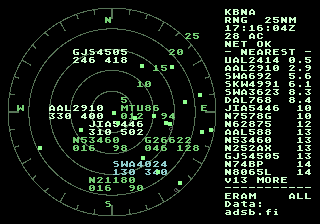
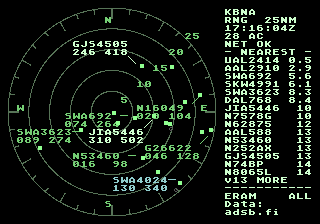
STARS data blocks: tags on leader lines in the STARS and ERAM themes
A theme flag (leader) makes tags data blocks set off the blip on a 1-px leader
line: 8 directions, 1-2 cells, the last direction tried first so blocks stay
put; then the old 4 spots. Leader cells are reserved in the tag grid, cleared
with the tag, and evicted by the notice box. West-side text meets its line.
Classic is pixel-identical; V-Int +2 lines avg at 25 nm. MAME-verified only.

Changed region(s): [[0.0312, 0.4688, 0.625, 0.875], [0.2188, 0.1875, 0.4062, 0.2812]]

diff --git a/src/radar.c b/src/radar.c
@@ -32,7 +32,28 @@ static const u32 box_tiles[4][8] = {
     { 0, 0, 0, 0, 0x00000005, 0x00000005, 0x00000005, 0x00005555 },
 };
 
-static u16 t_blip, t_box, t_ofont;
+/* STARS data blocks (themes with `leader`): a 1-px leader line in the tag's colour (15), transparent elsewhere.
+ * Diagonals run corner to corner, so cells in a row make one line. */
+static const u32 lead_tiles[4][8] = {
+    { 0x0000000F, 0x000000F0, 0x00000F00, 0x0000F000, 0x000F0000, 0x00F00000, 0x0F000000, 0xF0000000 },  /* rising: SW to NE */
+    { 0xF0000000, 0x0F000000, 0x00F00000, 0x000F0000, 0x0000F000, 0x00000F00, 0x000000F0, 0x0000000F },  /* falling: NW to SE */
+    { 0, 0, 0, 0xFFFFFFFF, 0, 0, 0, 0 },  /* horizontal */
+    { 0x000F0000, 0x000F0000, 0x000F0000, 0x000F0000, 0x000F0000, 0x000F0000, 0x000F0000, 0x000F0000 },  /* vertical */
+};
+enum { LT_SLASH, LT_BACK, LT_DASH, LT_BAR };
+/* Directions, in the order they're tried: NE SE NW SW E W N S. The tag sits at (ltag) from the leader's last
+ * cell, so the line meets its corner (diagonals) or its callsign row / first column. */
+#define L_DIRS  8
+static const s8 ldir[L_DIRS][2] = { { 1, -1 }, { 1, 1 }, { -1, -1 }, { -1, 1 }, { 1, 0 }, { -1, 0 }, { 0, -1 }, { 0, 1 } };
+static const u8 ltile[L_DIRS] = { LT_SLASH, LT_BACK, LT_BACK, LT_SLASH, LT_DASH, LT_DASH, LT_BAR, LT_BAR };
+static const s8 ltag[L_DIRS][2] = {
+    { 1, -2 }, { 1, 1 }, { -TAG_W, -2 }, { -TAG_W, 1 }, { 1, 0 }, { -TAG_W, 0 }, { 0, -2 }, { 0, 1 },
+};
+#define LEAD_ON     0x80
+#define LEAD_DIR(l) ((l) & 7)
+#define LEAD_LEN(l) (((l) >> 3) & 3)
+
+static u16 t_blip, t_box, t_ofont, t_lead;
 static u16 k_scale;
 static u8 grid[GRID_H][GRID_W];         /* tag/label occupancy per plane-A cell */
 static u8 label_cells[GRID_H][GRID_W];  /* permanent: ring labels + compass */
@@ -166,16 +187,35 @@ static bool grid_free(s16 x, s16 y)
 
 /* ------------------------------------------------------------ tags + trails */
 
-static void erase_tag(struct track *t)
+/* Cell k (0 = next to the tag) of a drawn leader line: back along its direction from the tag. */
+static void lead_cell(const struct track *t, u16 k, s16 *x, s16 *y)
 {
-    if (t->tag_x >= 0) {
-        for (s16 r = 0; r < 2; r++) {
-            row_clear(VDP_BG_A, t->tag_x, t->tag_y + r, TAG_W);
-            grid_mark(t->tag_x, t->tag_y + r, TAG_SPAN, -1);
-        }
-        t->tag_x = t->tag_y = -1;
-    }
+    u8 d = LEAD_DIR(t->lead);
+    *x = t->tag_x - ltag[d][0] - ldir[d][0] * k;
+    *y = t->tag_y - ltag[d][1] - ldir[d][1] * k;
 }
+
+/* Clear a tag's cells (and its leader's) from plane A; ungrid: release them in the grid too. */
+static void clear_tag(struct track *t, bool ungrid)
+{
+    if (t->tag_x < 0) return;
+    for (s16 r = 0; r < 2; r++) {
+        row_clear(VDP_BG_A, t->tag_x, t->tag_y + r, TAG_W);
+        if (ungrid) grid_mark(t->tag_x, t->tag_y + r, TAG_SPAN, -1);
+    }
+    if (t->lead & LEAD_ON) {
+        for (u16 k = 0; k < LEAD_LEN(t->lead); k++) {
+            s16 x, y;
+            lead_cell(t, k, &x, &y);
+            row_clear(VDP_BG_A, x, y, 1);
+            if (ungrid) grid_mark(x, y, 1, -1);
+        }
+        t->lead &= ~LEAD_ON;                /* direction and length stay: tried first next time */
+    }
+    t->tag_x = t->tag_y = -1;
+}
+
+static void erase_tag(struct track *t) { clear_tag(t, TRUE); }
 
 #define NO_DOT  (-32768)
 
@@ -214,6 +254,61 @@ static bool want_tag(u16 i)
     }
 }
 
+/* right: the text moves right over the trailing spaces both lines share, so a tag west of its leader meets
+ * the line (the cells, and the grid footprint, stay x .. x + TAG_W - 1). */
+static void put_tag(struct track *t, s16 x, s16 y, bool right)
+{
+    u16 attr = TILE_ATTR(t->tag_pal, TRUE, FALSE, FALSE), pad = 0;
+    if (right)
+        while (pad < TAG_W - 1 && t->tag[0][TAG_W - 1 - pad] == ' ' && t->tag[1][TAG_W - 1 - pad] == ' ') pad++;
+    row_write(VDP_BG_A, x + pad, y, t->tag[0], TAG_W - pad, attr);
+    row_write(VDP_BG_A, x + pad, y + 1, t->tag[1], TAG_W - pad, attr);
+    grid_mark(x, y, TAG_SPAN, 1);
+    grid_mark(x, y + 1, TAG_SPAN, 1);
+    t->tag_x = x;
+    t->tag_y = y;
+}
+
+/* A leader of len cells from the blip's cell in direction d, and the tag at its end: TRUE if it all fits. */
+static bool lead_fits(s16 cx, s16 cy, u16 d, u16 len)
+{
+    for (u16 k = 1; k <= len; k++) {
+        s16 x = cx + ldir[d][0] * k, y = cy + ldir[d][1] * k;
+        if (x < 1 || y < 1 || x > 26 || y > 26 || grid[y][x]) return FALSE;
+    }
+    return grid_free(cx + ldir[d][0] * len + ltag[d][0], cy + ldir[d][1] * len + ltag[d][1]);
+}
+
+/* STARS data block: the last direction and length if they still fit, else the first that does, nearest first. */
+static bool draw_lead(struct track *t, s16 cx, s16 cy)
+{
+    u16 d = L_DIRS, len = 0;
+
+    if (LEAD_LEN(t->lead) && lead_fits(cx, cy, LEAD_DIR(t->lead), LEAD_LEN(t->lead))) {
+        d = LEAD_DIR(t->lead);
+        len = LEAD_LEN(t->lead);
+    } else {
+        for (u16 l = 1; l <= 2 && d == L_DIRS; l++)
+            for (u16 c = 0; c < L_DIRS; c++)
+                if (lead_fits(cx, cy, c, l)) {
+                    d = c;
+                    len = l;
+                    break;
+                }
+    }
+    if (d == L_DIRS) return FALSE;
+    u16 attr = TILE_ATTR_FULL(t->tag_pal, TRUE, FALSE, FALSE, t_lead + ltile[d]);
+    for (u16 k = 1; k <= len; k++) {
+        s16 x = cx + ldir[d][0] * k, y = cy + ldir[d][1] * k;
+        *(vu32 *)VDP_CTRL_PORT = VDP_WRITE_VRAM_ADDR((u32)(VDP_BG_A + (((y << 6) + x) << 1)));
+        *(vu16 *)VDP_DATA_PORT = attr;
+        grid_mark(x, y, 1, 1);
+    }
+    put_tag(t, cx + ldir[d][0] * len + ltag[d][0], cy + ldir[d][1] * len + ltag[d][1], ldir[d][0] < 0);
+    t->lead = LEAD_ON | len << 3 | d;
+    return TRUE;
+}
+
 static void draw(struct track *t, u16 i)
 {
     s16 bx, by;
@@ -223,18 +318,12 @@ static void draw(struct track *t, u16 i)
     by = t->by;
 
     s16 cx = (SCOPE_X + bx) >> 3, cy = (SCOPE_Y + by) >> 3;
+    if (themes[settings.theme].leader && draw_lead(t, cx, cy)) return;
     static const s8 cand[4][2] = { { 1, -2 }, { 1, 1 }, { -TAG_W, -2 }, { -TAG_W, 1 } };
-    for (u16 c = 0; c < 4; c++) {
+    for (u16 c = 0; c < 4; c++) {       /* beside the blip, no line (and the fallback for a crowded STARS scope) */
         s16 x = cx + cand[c][0], y = cy + cand[c][1];
         if (!grid_free(x, y)) continue;
-
-        u16 attr = TILE_ATTR(t->tag_pal, TRUE, FALSE, FALSE);
-        row_write(VDP_BG_A, x, y, t->tag[0], TAG_W, attr);
-        row_write(VDP_BG_A, x, y + 1, t->tag[1], TAG_W, attr);
-        grid_mark(x, y, TAG_SPAN, 1);
-        grid_mark(x, y + 1, TAG_SPAN, 1);
-        t->tag_x = x;
-        t->tag_y = y;
+        put_tag(t, x, y, FALSE);
         return;
     }
 }
@@ -316,6 +405,22 @@ static void box_rows(u16 r0, u16 r1)
     }
 }
 
+static bool in_rect(s16 ax, s16 ay, s16 aw, s16 ah, s16 x, s16 y, s16 w, s16 h)
+{
+    return ax + aw > x && ax < x + w && ay + ah > y && ay < y + h;
+}
+
+static bool lead_in(const struct track *t, s16 x, s16 y, s16 w, s16 h)
+{
+    if (!(t->lead & LEAD_ON)) return FALSE;
+    for (u16 k = 0; k < LEAD_LEN(t->lead); k++) {
+        s16 lx, ly;
+        lead_cell(t, k, &lx, &ly);
+        if (in_rect(lx, ly, 1, 1, x, y, w, h)) return TRUE;
+    }
+    return FALSE;
+}
+
 /* Occupy (dv 1) or free (-1) the open box's cells in the tag grid. Occupying moves tags inside it elsewhere. */
 static void box_occupy(s16 dv)
 {
@@ -324,7 +429,7 @@ static void box_occupy(s16 dv)
     if (dv > 0)
         for (u16 i = 0; i < TR_MAX; i++) {
             struct track *t = &tracks[i];
-            if (t->tag_x >= 0 && t->tag_x + TAG_W > x && t->tag_x < x + w && t->tag_y + 2 > y && t->tag_y < y + h) {
+            if (t->tag_x >= 0 && (in_rect(t->tag_x, t->tag_y, TAG_W, 2, x, y, w, h) || lead_in(t, x, y, w, h))) {
                 erase_tag(t);
                 t->dirty = 1;
             }
@@ -517,10 +622,7 @@ static void radar_vint(void)
         for (u16 i = 0; i < TR_MAX; i++) {
             /* forget drawn dots (cleared in bulk below) and tags */
             for (u16 k = 0; k < TRAIL_N; k++) tracks[i].dot_x[k] = NO_DOT;
-            if (tracks[i].tag_x >= 0) {
-                for (s16 r = 0; r < 2; r++) row_clear(VDP_BG_A, tracks[i].tag_x, tracks[i].tag_y + r, TAG_W);
-                tracks[i].tag_x = tracks[i].tag_y = -1;
-            }
+            clear_tag(&tracks[i], FALSE);       /* the grid is zeroed below */
             tracks[i].dirty = 2;
             place(&tracks[i]);
         }
@@ -655,6 +757,8 @@ void radar_init(void)
     opaque_font(t_ofont);
     t_frame = t_ofont + FONT_LENGTH;
     VDP_loadTileData((const u32 *)frame_tiles, t_frame, 9, DMA);
+    t_lead = t_frame + 9;
+    VDP_loadTileData((const u32 *)lead_tiles, t_lead, 4, DMA);
 
     memset(tracks, 0, TR_MAX * sizeof(struct track));
     memset((void *)tr_state, 0, sizeof(tr_state));

diff --git a/src/traffic.h b/src/traffic.h
@@ -36,6 +36,7 @@ struct track {
     u16 spr_attr;               /* [vint] blip attr with brightness level 0 */
     u8 vis;                     /* [vint] cur is inside the disc at this range */
     s8 tag_x, tag_y;            /* [vint] tag cell on plane A, -1 = none */
+    u8 lead;                    /* [vint] leader line: 0x80 drawn | length << 3 | direction (radar.c); kept as a preference */
     s16 dot_x[TRAIL_N], dot_y[TRAIL_N];  /* [vint] block px of trail[n]'s dot, NO_DOT if none */
 };
 

diff --git a/src/theme.c b/src/theme.c
@@ -33,6 +33,7 @@ const struct theme themes[THEME_COUNT] = {
         .glow = { 0 },
         .sweep = FALSE,
         .blip_fade = FALSE,
+        .leader = TRUE,
     },
     [THEME_AMBER] = {
         .name = "AMBER",
@@ -124,5 +125,6 @@ const struct theme themes[THEME_COUNT] = {
         .glow = { 0 },
         .sweep = FALSE,
         .blip_fade = FALSE,
+        .leader = TRUE,
     },
 };

diff --git a/src/theme.h b/src/theme.h
@@ -32,6 +32,7 @@ struct theme {
     u16 glow[GLOW_SLOTS];   /* afterglow ramp, newest first */
     bool sweep;             /* draw the thin-line sweep */
     bool blip_fade;         /* blips fade after the sweep passes */
+    bool leader;            /* STARS data blocks: tags off the blip on a leader line (radar.c) */
 };
 
 extern const struct theme themes[THEME_COUNT];

diff --git a/lode/plans/ideas/summary.md b/lode/plans/ideas/summary.md
@@ -10,7 +10,7 @@ then move it to `plans/` as the active plan and update it to the current state a
 | *night lights* (below) | cockpit: urban cells lit warm yellow at night | relay | none | M | a land-cover / night-lights source |
 | [weather-overlay.md](weather-overlay.md) | NEXRAD precipitation as STARS-style stippled cells | both | v5+ `/v1/wx` | L | — |
 | [video-maps.md](video-maps.md) | runways + extended centrelines (+ rivers, airspace) | both | v5+ `/v1/map` | L | sweep slow-path measurement |
-| [stars-data-blocks.md](stars-data-blocks.md) | leader lines + 8-direction tags in STARS/ERAM | cart | none (phase 2: type in record) | M | — |
+| *STARS type line* (below) | data blocks alternate line 2 with the aircraft type | both | v5: type in `ar_rec` (24 → 28) | M | v5 release |
 | [spotters-logbook.md](spotters-logbook.md) | "today at KBNA" stats, rare types, rare-type notices | both | v5+ `/v1/log` | L | relay persistence |
 | [../watch-arrivals.md](../watch-arrivals.md) | ARRIVALS list order, cockpit through touchdown, relay on the Pi | both | v5 flag bit | M-L | cockpit low-altitude fixes |
 
@@ -32,10 +32,17 @@ urban cells, coloured dark grey by day and warm yellow at night, so Nashville gl
 Relay-only (cells' colour codes and the palette), no contract change. Done when: a source is chosen and cached,
 `code()` marks urban cells, night shows them lit in a `-sky night` emulator preview and on the cart.
 
+## STARS type line (phase 2 of the data blocks)
+STARS and ERAM draw tags as data blocks on leader lines ([../../ui/radar-renderer.md](../../ui/radar-renderer.md)). Real
+STARS time-shares line 2: altitude + speed, then the type (B38M), every ~2 s. The record has no type (only the
+96-byte `ar_detail` does), so it means growing `ar_rec` to 28 bytes (`char type[4]`): ~1.2 KB more RAM (tracks ×2
+records + `frame_buf`), and a contract bump, so it belongs in the v5 release. The cart then swaps `tag[1]` on a
+timer for tags in leader themes (≤ 2 redraws a frame already bound it). Open: STARS's own format (speed in tens of
+knots, 2 digits) or today's `016 174`.
+
 ## Suggested order
 1. **Night lights**, if the real sky makes you want more; relay only.
-2. **STARS data blocks** (phase 1, cart only).
-3. **One contract release (v5)** bundling what needs the relay: pick from weather, maps, logbook, arrivals.
+2. **One contract release (v5)** bundling what needs the relay: pick from weather, maps, logbook, arrivals, the STARS type line.
    Bundle them so the cart and relay bump `AR_VER` once ([../../architecture/contract.md](../../architecture/contract.md)).
 
 ## Shared constraints (from the lode)

diff --git a/lode/ui/radar-renderer.md b/lode/ui/radar-renderer.md
@@ -41,6 +41,29 @@ flowchart LR
   Never assume the previous screen left them at 0: cockpit mode's `voxel_flip` leaves plane A's vertical scroll at
   128 about half the time, and the scope's text then sits 16 rows down, wrapped (N below the centre, S above it).
 
+## STARS data blocks
+Themes with `leader` (STARS, ERAM) set each tag off its blip on a 1-px leader line; Classic and the others keep tags
+beside the blip (pixel-identical to before: checked against `print/shots/radar.png`).
+```
+      GJ54505          NE / SE / NW / SW: diagonal tiles corner to corner; the tag meets the line's end corner
+      246 418          E / W: a dash on the callsign row; N / S: a bar, tag above / below starting at its column
+             \         lengths 1-2 cells; tried NE SE NW SW E W N S at 1, then at 2; then the 4 old spots, no line
+              ◆
+```
+- **Tiles:** 4 (`/` `\` `-` `|`, colour 15 on transparent) after the border tiles (`t_lead = t_frame + 9`), drawn in
+  the tag's palette, so the line has the tag's altitude colour.
+- **State:** `track.lead` = `0x80` drawn | length << 3 | direction. Erasing keeps direction + length, and the next
+  draw tries them first (`draw_lead`): a block doesn't hop from side to side each sweep while its spot stays free.
+- **Cells:** leader cells are marked in `grid` like tag cells, and `clear_tag` (erase, rescale with `ungrid` off)
+  rebuilds them from the tag's cell, direction and length. The notice box evicts a tag if its leader crosses the box
+  (`lead_in`).
+- **West side** (dx < 0): the text shifts right over the trailing spaces both lines share (`put_tag(..., right)`),
+  so it meets the line; the footprint stays the tag's 8 cells.
+- **Crowding:** a leader can end beside another aircraft's block in a dense spot (tags may sit over other blips,
+  as before), which reads as the wrong owner at a glance. Accepted: rare outside the centre at 25 nm and wider.
+- **Cost** (MAME, `RADAR_DEBUG`, STARS 25 nm, KBNA ~29 aircraft): tag stage 43 → 44 lines avg, total 105 → 107,
+  no late frames.
+
 ## Measured cost (MAME, KBNA ~30 aircraft; avg scanlines of 262 per frame)
 | stage | lines | how it got there |
 |---|---|---|

diff --git a/lode/ui/screen-layout.md b/lode/ui/screen-layout.md
@@ -52,7 +52,8 @@ That's one `MULS` (16×16 → 32) per axis, with no software maths. Ranges: **5 
 - **Updates follow the sweep:** a new frame's position for an aircraft is applied when the sweep crosses
   its bearing, and its blip brightness tracks time since that crossing. **One poll per rotation**, fired as the
   sweep passes north. This hides network latency.
-- **Tags:** 2 lines (`SWA271` / `016 174`: alt in hundreds of ft, gs kt), coloured by altitude band.
+- **Tags:** 2 lines (`SWA271` / `016 174`: alt in hundreds of ft, gs kt), coloured by altitude band. Themes with
+  `leader` (STARS, ERAM) draw them as data blocks on a leader line ([radar-renderer.md](radar-renderer.md#stars-data-blocks)).
   Placed in the first free spot of 4 candidates around the blip. ◀/▶ cycle *all / selected / off*.
 - **Controls:**
 
@@ -89,17 +90,17 @@ Nine themes, cycled in setup's THEME row or by X; `settings.theme` is their inde
 | Theme | Look | Sweep + blip fade |
 |---|---|---|
 | **Classic** (default) | green phosphor on black | yes |
-| **STARS** | black, white/cyan tags, blue rings | no: targets just update each scan |
+| **STARS** | black, white/cyan data blocks on leader lines, blue rings | no: targets just update each scan |
 | AMBER | amber phosphor, orange sweep, red emergencies | yes |
 | NIGHT | dim reds; tags red → orange with altitude, emergencies pale pink | yes |
 | MARINE | yellow-orange on navy (`0x200`), steel-blue rings | yes |
 | ICE | blue-white phosphor | yes |
 | POCKET | dark olive on pea green (`0x0A8`), brown emergencies | no |
 | SUNSET | cyan sweep over purple (`0x402`), magenta rings, pink trails | yes |
-| ERAM | grey-green maps, green targets, pale data blocks | no |
+| ERAM | grey-green maps, green targets, pale data blocks on leader lines | no |
 
 ```c
-struct theme { const char *name; u16 pal[4][16]; u16 glow[GLOW_SLOTS]; bool sweep; bool blip_fade; };
+struct theme { const char *name; u16 pal[4][16]; u16 glow[GLOW_SLOTS]; bool sweep; bool blip_fade; bool leader; };
 ```
 
 Palette contract (`theme.h`), the same for every theme:

diff --git a/lode/plans/roadmap.md b/lode/plans/roadmap.md
@@ -55,7 +55,8 @@ dns-sd -B _mwradar._tcp        # is the relay advertised?
 
 ## Open decisions / ideas
 - [ ] Watch arrivals (tabled): ARRIVALS list order, cockpit through touchdown, relay on the fr24feed Pi; see [watch-arrivals.md](watch-arrivals.md).
-- [ ] Feature goals backlog (night lights, weather, video maps, STARS data blocks, logbook): [ideas/summary.md](ideas/summary.md).
+- [ ] Feature goals backlog (night lights, weather, video maps, STARS type line, logbook): [ideas/summary.md](ideas/summary.md).
+- [ ] STARS data blocks (0.4.3, MAME-verified only): look at them on the TV at 10 and 25 nm.
 - [ ] Ambient mode (0.4.3, MAME-verified only): check on the cart: a tour after AFTER 1 MIN, a ride's 75 s, any button ending it.
 - [ ] Data path A vs B: relay (current) or a firmware digester ([../architecture/data-path-options.md](../architecture/data-path-options.md)).
 - [ ] Relay binaries for macOS/Linux in releases (native runs advertise mDNS themselves; easier than a container on a Mac).

diff --git a/CHANGELOG.md b/CHANGELOG.md
@@ -7,6 +7,9 @@ IMPROVEMENTS:
     details, rides along in the cockpit view for 75 seconds, and comes back; a minute later, another. The panel
     says `NET OK AUTO`. Any button takes over again, and that press does nothing else.
   * **setup:** the AMBIENT row; CONTROLS, RESET, SAVE & EXIT and EXIT now sit together at the bottom.
+  * **radar:** the STARS and ERAM themes draw tags as data blocks: set off from the target on a short leader line,
+    in whichever of eight directions has room, and staying on the same side from sweep to sweep. Classic and the
+    other themes keep tags beside the target.
 
 ## 0.4.2 (November 1, 2026)
 

diff --git a/lode/lode-map.md b/lode/lode-map.md
@@ -47,6 +47,5 @@
     - [summary.md](plans/ideas/summary.md) - index: size, contract impact, dependencies, suggested order, shared constraints; night lights
     - [weather-overlay.md](plans/ideas/weather-overlay.md) - NEXRAD cells on plane A under tags, /v1/wx
     - [video-maps.md](plans/ideas/video-maps.md) - runways + centrelines on plane B, /v1/map, sweep slow path
-    - [stars-data-blocks.md](plans/ideas/stars-data-blocks.md) - leader lines, 8-direction tags in STARS/ERAM
     - [spotters-logbook.md](plans/ideas/spotters-logbook.md) - daily stats + rare types, relay persistence, /v1/log
 - tmp/ - git-ignored scratch

diff --git a/lode/terminology.md b/lode/terminology.md
@@ -68,3 +68,4 @@
 - atc-mqtt - the owner's service that watches FR24 within 500 m of home and publishes `atc/status` to MQTT.
 - Dev broker - `mwradar-mqtt`, a local mosquitto container on the `mwradar` network (`make mqtt-start`).
 - Ambient mode - the radar touring flights by itself after setup's AMBIENT idle minutes: details, a 75 s cockpit ride, a minute on the radar (`ambient.c`); `NET OK AUTO` on the panel.
+- Data block / leader line - STARS/ERAM tag style: the 2-line tag set off its blip on a short 1-px line in one of 8 directions (`draw_lead`, theme flag `leader`).
